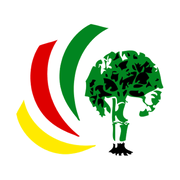
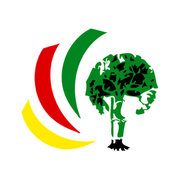
Add files via upload

Changed region(s): [[0.0833, 0.1111, 0.6111, 0.8611], [0.4722, 0.2778, 0.9167, 0.8889]]

diff --git a/contacts.html b/contacts.html
@@ -26,10 +26,13 @@
 </div></div>
 
 <header class="hdr"><div class="wrap hdr-in">
-  <a class="lockup" href="index.html" aria-label="AO Cameroun — accueil">
-    <img class="lk-c" src="assets/img/mark-240.png" alt="" width="334" height="299">
-    <img class="lk-w" src="assets/img/mark-blanc-240.png" alt="" width="334" height="299">
-    <span><span class="nm">AO Cameroun</span><span class="sb">Association camerounaise<br>pour l’ostéosynthèse</span></span>
+  <a class="lockup" href="index.html" aria-label="Association Camerounaise pour l’Ostéosynthèse — accueil">
+    <img class="lk-c" src="assets/img/logo-stack@1x.png"
+         srcset="assets/img/logo-stack@1x.png 1x, assets/img/logo-stack@2x.png 2x, assets/img/logo-stack@3x.png 3x"
+         alt="Association Camerounaise pour l’Ostéosynthèse" width="146" height="108">
+    <img class="lk-w" src="assets/img/logo-stack-blanc@1x.png"
+         srcset="assets/img/logo-stack-blanc@1x.png 1x, assets/img/logo-stack-blanc@2x.png 2x, assets/img/logo-stack-blanc@3x.png 3x"
+         alt="" aria-hidden="true" width="146" height="108">
   </a>
   <nav aria-label="Navigation principale"><ul class="nav"><li><a class="navlink" href="index.html">Accueil</a></li><li data-mega><button class="navlink" aria-expanded="false" aria-haspopup="true">Calendrier des événements <svg class="ic" width="15" height="15" viewBox="0 0 24 24" fill="none" stroke="currentColor" stroke-width="1.7" stroke-linecap="round" stroke-linejoin="round" aria-hidden="true"><path d="m6 9 6 6 6-6"/></svg></button><div class="mega"><div><h3>Par zone</h3><ul><li><a href="calendrier.html">Événements au Cameroun</a></li><li><a href="calendrier-afrique-francophone.html">Afrique francophone</a></li><li><a href="calendrier-afrique-anglophone.html">Afrique anglophone</a></li><li><a href="calendrier-asie.html">Asie</a></li></ul></div><div><h3>Repères</h3><ul><li><a href="calendrier.html#formats">Formats de session</a></li><li><a href="contacts.html">Qui contacter</a></li><li><a href="phototheque.html">Photos des éditions passées</a></li></ul></div><div class="feat"><span class="eyebrow">Prochain événement</span><p class="d5" style="margin:0">[Intitulé de la prochaine session]</p><p class="sm" style="margin:0">[Ville] · <span class="tk">[JJ–JJ mois AAAA]</span></p><a class="btn btn-p btn-sm" href="calendrier.html" style="align-self:flex-start;margin-top:4px">Voir le calendrier</a></div></div></li><li><a class="navlink" href="contacts.html" aria-current="page">Liste des contacts</a></li><li><a class="navlink" href="videotheque.html">Vidéothèque</a></li><li><a class="navlink" href="phototheque.html">Photothèque</a></li></ul></nav>
   <div class="hdr-r">
@@ -43,8 +46,7 @@
 <div class="drawer" id="drawer">
   <div class="wrap">
     <div class="drawer-top">
-      <span class="lockup"><img src="assets/img/mark-120.png" alt="" width="334" height="299" style="height:38px">
-      <span><span class="nm" style="font-size:19px">AO Cameroun</span></span></span>
+      <span class="lockup"><img src="assets/img/logo-stack@1x.png" srcset="assets/img/logo-stack@1x.png 1x, assets/img/logo-stack@2x.png 2x" alt="Association Camerounaise pour l’Ostéosynthèse" width="146" height="108" style="height:86px"></span>
       <button class="iconbtn" data-drawer-close aria-label="Fermer le menu"><svg class="ic" width="20" height="20" viewBox="0 0 24 24" fill="none" stroke="currentColor" stroke-width="1.7" stroke-linecap="round" stroke-linejoin="round" aria-hidden="true"><path d="M6 6l12 12M18 6L6 18"/></svg></button>
     </div>
     <a class="acc-t" href="index.html">Accueil</a><button class="acc-t" aria-expanded="false">Calendrier des événements <span class="ic"><svg class="ic" width="18" height="18" viewBox="0 0 24 24" fill="none" stroke="currentColor" stroke-width="1.7" stroke-linecap="round" stroke-linejoin="round" aria-hidden="true"><rect x="3" y="5" width="18" height="16" rx="2"/><path d="M3 10h18M8 3v4M16 3v4"/></svg></span></button><div class="acc-p"><a href="calendrier.html">Événements au Cameroun</a><a href="calendrier-afrique-francophone.html">Afrique francophone</a><a href="calendrier-afrique-anglophone.html">Afrique anglophone</a><a href="calendrier-asie.html">Asie</a></div><a class="acc-t" href="contacts.html">Liste des contacts</a><a class="acc-t" href="videotheque.html">Vidéothèque</a><a class="acc-t" href="phototheque.html">Photothèque</a>

diff --git a/phototheque.html b/phototheque.html
@@ -26,10 +26,13 @@
 </div></div>
 
 <header class="hdr"><div class="wrap hdr-in">
-  <a class="lockup" href="index.html" aria-label="AO Cameroun — accueil">
-    <img class="lk-c" src="assets/img/mark-240.png" alt="" width="334" height="299">
-    <img class="lk-w" src="assets/img/mark-blanc-240.png" alt="" width="334" height="299">
-    <span><span class="nm">AO Cameroun</span><span class="sb">Association camerounaise<br>pour l’ostéosynthèse</span></span>
+  <a class="lockup" href="index.html" aria-label="Association Camerounaise pour l’Ostéosynthèse — accueil">
+    <img class="lk-c" src="assets/img/logo-stack@1x.png"
+         srcset="assets/img/logo-stack@1x.png 1x, assets/img/logo-stack@2x.png 2x, assets/img/logo-stack@3x.png 3x"
+         alt="Association Camerounaise pour l’Ostéosynthèse" width="146" height="108">
+    <img class="lk-w" src="assets/img/logo-stack-blanc@1x.png"
+         srcset="assets/img/logo-stack-blanc@1x.png 1x, assets/img/logo-stack-blanc@2x.png 2x, assets/img/logo-stack-blanc@3x.png 3x"
+         alt="" aria-hidden="true" width="146" height="108">
   </a>
   <nav aria-label="Navigation principale"><ul class="nav"><li><a class="navlink" href="index.html">Accueil</a></li><li data-mega><button class="navlink" aria-expanded="false" aria-haspopup="true">Calendrier des événements <svg class="ic" width="15" height="15" viewBox="0 0 24 24" fill="none" stroke="currentColor" stroke-width="1.7" stroke-linecap="round" stroke-linejoin="round" aria-hidden="true"><path d="m6 9 6 6 6-6"/></svg></button><div class="mega"><div><h3>Par zone</h3><ul><li><a href="calendrier.html">Événements au Cameroun</a></li><li><a href="calendrier-afrique-francophone.html">Afrique francophone</a></li><li><a href="calendrier-afrique-anglophone.html">Afrique anglophone</a></li><li><a href="calendrier-asie.html">Asie</a></li></ul></div><div><h3>Repères</h3><ul><li><a href="calendrier.html#formats">Formats de session</a></li><li><a href="contacts.html">Qui contacter</a></li><li><a href="phototheque.html">Photos des éditions passées</a></li></ul></div><div class="feat"><span class="eyebrow">Prochain événement</span><p class="d5" style="margin:0">[Intitulé de la prochaine session]</p><p class="sm" style="margin:0">[Ville] · <span class="tk">[JJ–JJ mois AAAA]</span></p><a class="btn btn-p btn-sm" href="calendrier.html" style="align-self:flex-start;margin-top:4px">Voir le calendrier</a></div></div></li><li><a class="navlink" href="contacts.html">Liste des contacts</a></li><li><a class="navlink" href="videotheque.html">Vidéothèque</a></li><li><a class="navlink" href="phototheque.html" aria-current="page">Photothèque</a></li></ul></nav>
   <div class="hdr-r">
@@ -43,8 +46,7 @@
 <div class="drawer" id="drawer">
   <div class="wrap">
     <div class="drawer-top">
-      <span class="lockup"><img src="assets/img/mark-120.png" alt="" width="334" height="299" style="height:38px">
-      <span><span class="nm" style="font-size:19px">AO Cameroun</span></span></span>
+      <span class="lockup"><img src="assets/img/logo-stack@1x.png" srcset="assets/img/logo-stack@1x.png 1x, assets/img/logo-stack@2x.png 2x" alt="Association Camerounaise pour l’Ostéosynthèse" width="146" height="108" style="height:86px"></span>
       <button class="iconbtn" data-drawer-close aria-label="Fermer le menu"><svg class="ic" width="20" height="20" viewBox="0 0 24 24" fill="none" stroke="currentColor" stroke-width="1.7" stroke-linecap="round" stroke-linejoin="round" aria-hidden="true"><path d="M6 6l12 12M18 6L6 18"/></svg></button>
     </div>
     <a class="acc-t" href="index.html">Accueil</a><button class="acc-t" aria-expanded="false">Calendrier des événements <span class="ic"><svg class="ic" width="18" height="18" viewBox="0 0 24 24" fill="none" stroke="currentColor" stroke-width="1.7" stroke-linecap="round" stroke-linejoin="round" aria-hidden="true"><rect x="3" y="5" width="18" height="16" rx="2"/><path d="M3 10h18M8 3v4M16 3v4"/></svg></span></button><div class="acc-p"><a href="calendrier.html">Événements au Cameroun</a><a href="calendrier-afrique-francophone.html">Afrique francophone</a><a href="calendrier-afrique-anglophone.html">Afrique anglophone</a><a href="calendrier-asie.html">Asie</a></div><a class="acc-t" href="contacts.html">Liste des contacts</a><a class="acc-t" href="videotheque.html">Vidéothèque</a><a class="acc-t" href="phototheque.html">Photothèque</a>

diff --git a/videotheque.html b/videotheque.html
@@ -26,10 +26,13 @@
 </div></div>
 
 <header class="hdr"><div class="wrap hdr-in">
-  <a class="lockup" href="index.html" aria-label="AO Cameroun — accueil">
-    <img class="lk-c" src="assets/img/mark-240.png" alt="" width="334" height="299">
-    <img class="lk-w" src="assets/img/mark-blanc-240.png" alt="" width="334" height="299">
-    <span><span class="nm">AO Cameroun</span><span class="sb">Association camerounaise<br>pour l’ostéosynthèse</span></span>
+  <a class="lockup" href="index.html" aria-label="Association Camerounaise pour l’Ostéosynthèse — accueil">
+    <img class="lk-c" src="assets/img/logo-stack@1x.png"
+         srcset="assets/img/logo-stack@1x.png 1x, assets/img/logo-stack@2x.png 2x, assets/img/logo-stack@3x.png 3x"
+         alt="Association Camerounaise pour l’Ostéosynthèse" width="146" height="108">
+    <img class="lk-w" src="assets/img/logo-stack-blanc@1x.png"
+         srcset="assets/img/logo-stack-blanc@1x.png 1x, assets/img/logo-stack-blanc@2x.png 2x, assets/img/logo-stack-blanc@3x.png 3x"
+         alt="" aria-hidden="true" width="146" height="108">
   </a>
   <nav aria-label="Navigation principale"><ul class="nav"><li><a class="navlink" href="index.html">Accueil</a></li><li data-mega><button class="navlink" aria-expanded="false" aria-haspopup="true">Calendrier des événements <svg class="ic" width="15" height="15" viewBox="0 0 24 24" fill="none" stroke="currentColor" stroke-width="1.7" stroke-linecap="round" stroke-linejoin="round" aria-hidden="true"><path d="m6 9 6 6 6-6"/></svg></button><div class="mega"><div><h3>Par zone</h3><ul><li><a href="calendrier.html">Événements au Cameroun</a></li><li><a href="calendrier-afrique-francophone.html">Afrique francophone</a></li><li><a href="calendrier-afrique-anglophone.html">Afrique anglophone</a></li><li><a href="calendrier-asie.html">Asie</a></li></ul></div><div><h3>Repères</h3><ul><li><a href="calendrier.html#formats">Formats de session</a></li><li><a href="contacts.html">Qui contacter</a></li><li><a href="phototheque.html">Photos des éditions passées</a></li></ul></div><div class="feat"><span class="eyebrow">Prochain événement</span><p class="d5" style="margin:0">[Intitulé de la prochaine session]</p><p class="sm" style="margin:0">[Ville] · <span class="tk">[JJ–JJ mois AAAA]</span></p><a class="btn btn-p btn-sm" href="calendrier.html" style="align-self:flex-start;margin-top:4px">Voir le calendrier</a></div></div></li><li><a class="navlink" href="contacts.html">Liste des contacts</a></li><li><a class="navlink" href="videotheque.html" aria-current="page">Vidéothèque</a></li><li><a class="navlink" href="phototheque.html">Photothèque</a></li></ul></nav>
   <div class="hdr-r">
@@ -43,8 +46,7 @@
 <div class="drawer" id="drawer">
   <div class="wrap">
     <div class="drawer-top">
-      <span class="lockup"><img src="assets/img/mark-120.png" alt="" width="334" height="299" style="height:38px">
-      <span><span class="nm" style="font-size:19px">AO Cameroun</span></span></span>
+      <span class="lockup"><img src="assets/img/logo-stack@1x.png" srcset="assets/img/logo-stack@1x.png 1x, assets/img/logo-stack@2x.png 2x" alt="Association Camerounaise pour l’Ostéosynthèse" width="146" height="108" style="height:86px"></span>
       <button class="iconbtn" data-drawer-close aria-label="Fermer le menu"><svg class="ic" width="20" height="20" viewBox="0 0 24 24" fill="none" stroke="currentColor" stroke-width="1.7" stroke-linecap="round" stroke-linejoin="round" aria-hidden="true"><path d="M6 6l12 12M18 6L6 18"/></svg></button>
     </div>
     <a class="acc-t" href="index.html">Accueil</a><button class="acc-t" aria-expanded="false">Calendrier des événements <span class="ic"><svg class="ic" width="18" height="18" viewBox="0 0 24 24" fill="none" stroke="currentColor" stroke-width="1.7" stroke-linecap="round" stroke-linejoin="round" aria-hidden="true"><rect x="3" y="5" width="18" height="16" rx="2"/><path d="M3 10h18M8 3v4M16 3v4"/></svg></span></button><div class="acc-p"><a href="calendrier.html">Événements au Cameroun</a><a href="calendrier-afrique-francophone.html">Afrique francophone</a><a href="calendrier-afrique-anglophone.html">Afrique anglophone</a><a href="calendrier-asie.html">Asie</a></div><a class="acc-t" href="contacts.html">Liste des contacts</a><a class="acc-t" href="videotheque.html">Vidéothèque</a><a class="acc-t" href="phototheque.html">Photothèque</a>

diff --git a/calendrier-afrique-anglophone.html b/calendrier-afrique-anglophone.html
@@ -26,10 +26,13 @@
 </div></div>
 
 <header class="hdr"><div class="wrap hdr-in">
-  <a class="lockup" href="index.html" aria-label="AO Cameroun — accueil">
-    <img class="lk-c" src="assets/img/mark-240.png" alt="" width="334" height="299">
-    <img class="lk-w" src="assets/img/mark-blanc-240.png" alt="" width="334" height="299">
-    <span><span class="nm">AO Cameroun</span><span class="sb">Association camerounaise<br>pour l’ostéosynthèse</span></span>
+  <a class="lockup" href="index.html" aria-label="Association Camerounaise pour l’Ostéosynthèse — accueil">
+    <img class="lk-c" src="assets/img/logo-stack@1x.png"
+         srcset="assets/img/logo-stack@1x.png 1x, assets/img/logo-stack@2x.png 2x, assets/img/logo-stack@3x.png 3x"
+         alt="Association Camerounaise pour l’Ostéosynthèse" width="146" height="108">
+    <img class="lk-w" src="assets/img/logo-stack-blanc@1x.png"
+         srcset="assets/img/logo-stack-blanc@1x.png 1x, assets/img/logo-stack-blanc@2x.png 2x, assets/img/logo-stack-blanc@3x.png 3x"
+         alt="" aria-hidden="true" width="146" height="108">
   </a>
   <nav aria-label="Navigation principale"><ul class="nav"><li><a class="navlink" href="index.html">Accueil</a></li><li data-mega><button class="navlink" aria-expanded="false" aria-haspopup="true">Calendrier des événements <svg class="ic" width="15" height="15" viewBox="0 0 24 24" fill="none" stroke="currentColor" stroke-width="1.7" stroke-linecap="round" stroke-linejoin="round" aria-hidden="true"><path d="m6 9 6 6 6-6"/></svg></button><div class="mega"><div><h3>Par zone</h3><ul><li><a href="calendrier.html">Événements au Cameroun</a></li><li><a href="calendrier-afrique-francophone.html">Afrique francophone</a></li><li><a href="calendrier-afrique-anglophone.html">Afrique anglophone</a></li><li><a href="calendrier-asie.html">Asie</a></li></ul></div><div><h3>Repères</h3><ul><li><a href="calendrier.html#formats">Formats de session</a></li><li><a href="contacts.html">Qui contacter</a></li><li><a href="phototheque.html">Photos des éditions passées</a></li></ul></div><div class="feat"><span class="eyebrow">Prochain événement</span><p class="d5" style="margin:0">[Intitulé de la prochaine session]</p><p class="sm" style="margin:0">[Ville] · <span class="tk">[JJ–JJ mois AAAA]</span></p><a class="btn btn-p btn-sm" href="calendrier.html" style="align-self:flex-start;margin-top:4px">Voir le calendrier</a></div></div></li><li><a class="navlink" href="contacts.html">Liste des contacts</a></li><li><a class="navlink" href="videotheque.html">Vidéothèque</a></li><li><a class="navlink" href="phototheque.html">Photothèque</a></li></ul></nav>
   <div class="hdr-r">
@@ -43,8 +46,7 @@
 <div class="drawer" id="drawer">
   <div class="wrap">
     <div class="drawer-top">
-      <span class="lockup"><img src="assets/img/mark-120.png" alt="" width="334" height="299" style="height:38px">
-      <span><span class="nm" style="font-size:19px">AO Cameroun</span></span></span>
+      <span class="lockup"><img src="assets/img/logo-stack@1x.png" srcset="assets/img/logo-stack@1x.png 1x, assets/img/logo-stack@2x.png 2x" alt="Association Camerounaise pour l’Ostéosynthèse" width="146" height="108" style="height:86px"></span>
       <button class="iconbtn" data-drawer-close aria-label="Fermer le menu"><svg class="ic" width="20" height="20" viewBox="0 0 24 24" fill="none" stroke="currentColor" stroke-width="1.7" stroke-linecap="round" stroke-linejoin="round" aria-hidden="true"><path d="M6 6l12 12M18 6L6 18"/></svg></button>
     </div>
     <a class="acc-t" href="index.html">Accueil</a><button class="acc-t" aria-expanded="false">Calendrier des événements <span class="ic"><svg class="ic" width="18" height="18" viewBox="0 0 24 24" fill="none" stroke="currentColor" stroke-width="1.7" stroke-linecap="round" stroke-linejoin="round" aria-hidden="true"><rect x="3" y="5" width="18" height="16" rx="2"/><path d="M3 10h18M8 3v4M16 3v4"/></svg></span></button><div class="acc-p"><a href="calendrier.html">Événements au Cameroun</a><a href="calendrier-afrique-francophone.html">Afrique francophone</a><a href="calendrier-afrique-anglophone.html">Afrique anglophone</a><a href="calendrier-asie.html">Asie</a></div><a class="acc-t" href="contacts.html">Liste des contacts</a><a class="acc-t" href="videotheque.html">Vidéothèque</a><a class="acc-t" href="phototheque.html">Photothèque</a>

diff --git a/calendrier-afrique-francophone.html b/calendrier-afrique-francophone.html
@@ -26,10 +26,13 @@
 </div></div>
 
 <header class="hdr"><div class="wrap hdr-in">
-  <a class="lockup" href="index.html" aria-label="AO Cameroun — accueil">
-    <img class="lk-c" src="assets/img/mark-240.png" alt="" width="334" height="299">
-    <img class="lk-w" src="assets/img/mark-blanc-240.png" alt="" width="334" height="299">
-    <span><span class="nm">AO Cameroun</span><span class="sb">Association camerounaise<br>pour l’ostéosynthèse</span></span>
+  <a class="lockup" href="index.html" aria-label="Association Camerounaise pour l’Ostéosynthèse — accueil">
+    <img class="lk-c" src="assets/img/logo-stack@1x.png"
+         srcset="assets/img/logo-stack@1x.png 1x, assets/img/logo-stack@2x.png 2x, assets/img/logo-stack@3x.png 3x"
+         alt="Association Camerounaise pour l’Ostéosynthèse" width="146" height="108">
+    <img class="lk-w" src="assets/img/logo-stack-blanc@1x.png"
+         srcset="assets/img/logo-stack-blanc@1x.png 1x, assets/img/logo-stack-blanc@2x.png 2x, assets/img/logo-stack-blanc@3x.png 3x"
+         alt="" aria-hidden="true" width="146" height="108">
   </a>
   <nav aria-label="Navigation principale"><ul class="nav"><li><a class="navlink" href="index.html">Accueil</a></li><li data-mega><button class="navlink" aria-expanded="false" aria-haspopup="true">Calendrier des événements <svg class="ic" width="15" height="15" viewBox="0 0 24 24" fill="none" stroke="currentColor" stroke-width="1.7" stroke-linecap="round" stroke-linejoin="round" aria-hidden="true"><path d="m6 9 6 6 6-6"/></svg></button><div class="mega"><div><h3>Par zone</h3><ul><li><a href="calendrier.html">Événements au Cameroun</a></li><li><a href="calendrier-afrique-francophone.html">Afrique francophone</a></li><li><a href="calendrier-afrique-anglophone.html">Afrique anglophone</a></li><li><a href="calendrier-asie.html">Asie</a></li></ul></div><div><h3>Repères</h3><ul><li><a href="calendrier.html#formats">Formats de session</a></li><li><a href="contacts.html">Qui contacter</a></li><li><a href="phototheque.html">Photos des éditions passées</a></li></ul></div><div class="feat"><span class="eyebrow">Prochain événement</span><p class="d5" style="margin:0">[Intitulé de la prochaine session]</p><p class="sm" style="margin:0">[Ville] · <span class="tk">[JJ–JJ mois AAAA]</span></p><a class="btn btn-p btn-sm" href="calendrier.html" style="align-self:flex-start;margin-top:4px">Voir le calendrier</a></div></div></li><li><a class="navlink" href="contacts.html">Liste des contacts</a></li><li><a class="navlink" href="videotheque.html">Vidéothèque</a></li><li><a class="navlink" href="phototheque.html">Photothèque</a></li></ul></nav>
   <div class="hdr-r">
@@ -43,8 +46,7 @@
 <div class="drawer" id="drawer">
   <div class="wrap">
     <div class="drawer-top">
-      <span class="lockup"><img src="assets/img/mark-120.png" alt="" width="334" height="299" style="height:38px">
-      <span><span class="nm" style="font-size:19px">AO Cameroun</span></span></span>
+      <span class="lockup"><img src="assets/img/logo-stack@1x.png" srcset="assets/img/logo-stack@1x.png 1x, assets/img/logo-stack@2x.png 2x" alt="Association Camerounaise pour l’Ostéosynthèse" width="146" height="108" style="height:86px"></span>
       <button class="iconbtn" data-drawer-close aria-label="Fermer le menu"><svg class="ic" width="20" height="20" viewBox="0 0 24 24" fill="none" stroke="currentColor" stroke-width="1.7" stroke-linecap="round" stroke-linejoin="round" aria-hidden="true"><path d="M6 6l12 12M18 6L6 18"/></svg></button>
     </div>
     <a class="acc-t" href="index.html">Accueil</a><button class="acc-t" aria-expanded="false">Calendrier des événements <span class="ic"><svg class="ic" width="18" height="18" viewBox="0 0 24 24" fill="none" stroke="currentColor" stroke-width="1.7" stroke-linecap="round" stroke-linejoin="round" aria-hidden="true"><rect x="3" y="5" width="18" height="16" rx="2"/><path d="M3 10h18M8 3v4M16 3v4"/></svg></span></button><div class="acc-p"><a href="calendrier.html">Événements au Cameroun</a><a href="calendrier-afrique-francophone.html">Afrique francophone</a><a href="calendrier-afrique-anglophone.html">Afrique anglophone</a><a href="calendrier-asie.html">Asie</a></div><a class="acc-t" href="contacts.html">Liste des contacts</a><a class="acc-t" href="videotheque.html">Vidéothèque</a><a class="acc-t" href="phototheque.html">Photothèque</a>

diff --git a/calendrier-asie.html b/calendrier-asie.html
@@ -26,10 +26,13 @@
 </div></div>
 
 <header class="hdr"><div class="wrap hdr-in">
-  <a class="lockup" href="index.html" aria-label="AO Cameroun — accueil">
-    <img class="lk-c" src="assets/img/mark-240.png" alt="" width="334" height="299">
-    <img class="lk-w" src="assets/img/mark-blanc-240.png" alt="" width="334" height="299">
-    <span><span class="nm">AO Cameroun</span><span class="sb">Association camerounaise<br>pour l’ostéosynthèse</span></span>
+  <a class="lockup" href="index.html" aria-label="Association Camerounaise pour l’Ostéosynthèse — accueil">
+    <img class="lk-c" src="assets/img/logo-stack@1x.png"
+         srcset="assets/img/logo-stack@1x.png 1x, assets/img/logo-stack@2x.png 2x, assets/img/logo-stack@3x.png 3x"
+         alt="Association Camerounaise pour l’Ostéosynthèse" width="146" height="108">
+    <img class="lk-w" src="assets/img/logo-stack-blanc@1x.png"
+         srcset="assets/img/logo-stack-blanc@1x.png 1x, assets/img/logo-stack-blanc@2x.png 2x, assets/img/logo-stack-blanc@3x.png 3x"
+         alt="" aria-hidden="true" width="146" height="108">
   </a>
   <nav aria-label="Navigation principale"><ul class="nav"><li><a class="navlink" href="index.html">Accueil</a></li><li data-mega><button class="navlink" aria-expanded="false" aria-haspopup="true">Calendrier des événements <svg class="ic" width="15" height="15" viewBox="0 0 24 24" fill="none" stroke="currentColor" stroke-width="1.7" stroke-linecap="round" stroke-linejoin="round" aria-hidden="true"><path d="m6 9 6 6 6-6"/></svg></button><div class="mega"><div><h3>Par zone</h3><ul><li><a href="calendrier.html">Événements au Cameroun</a></li><li><a href="calendrier-afrique-francophone.html">Afrique francophone</a></li><li><a href="calendrier-afrique-anglophone.html">Afrique anglophone</a></li><li><a href="calendrier-asie.html">Asie</a></li></ul></div><div><h3>Repères</h3><ul><li><a href="calendrier.html#formats">Formats de session</a></li><li><a href="contacts.html">Qui contacter</a></li><li><a href="phototheque.html">Photos des éditions passées</a></li></ul></div><div class="feat"><span class="eyebrow">Prochain événement</span><p class="d5" style="margin:0">[Intitulé de la prochaine session]</p><p class="sm" style="margin:0">[Ville] · <span class="tk">[JJ–JJ mois AAAA]</span></p><a class="btn btn-p btn-sm" href="calendrier.html" style="align-self:flex-start;margin-top:4px">Voir le calendrier</a></div></div></li><li><a class="navlink" href="contacts.html">Liste des contacts</a></li><li><a class="navlink" href="videotheque.html">Vidéothèque</a></li><li><a class="navlink" href="phototheque.html">Photothèque</a></li></ul></nav>
   <div class="hdr-r">
@@ -43,8 +46,7 @@
 <div class="drawer" id="drawer">
   <div class="wrap">
     <div class="drawer-top">
-      <span class="lockup"><img src="assets/img/mark-120.png" alt="" width="334" height="299" style="height:38px">
-      <span><span class="nm" style="font-size:19px">AO Cameroun</span></span></span>
+      <span class="lockup"><img src="assets/img/logo-stack@1x.png" srcset="assets/img/logo-stack@1x.png 1x, assets/img/logo-stack@2x.png 2x" alt="Association Camerounaise pour l’Ostéosynthèse" width="146" height="108" style="height:86px"></span>
       <button class="iconbtn" data-drawer-close aria-label="Fermer le menu"><svg class="ic" width="20" height="20" viewBox="0 0 24 24" fill="none" stroke="currentColor" stroke-width="1.7" stroke-linecap="round" stroke-linejoin="round" aria-hidden="true"><path d="M6 6l12 12M18 6L6 18"/></svg></button>
     </div>
     <a class="acc-t" href="index.html">Accueil</a><button class="acc-t" aria-expanded="false">Calendrier des événements <span class="ic"><svg class="ic" width="18" height="18" viewBox="0 0 24 24" fill="none" stroke="currentColor" stroke-width="1.7" stroke-linecap="round" stroke-linejoin="round" aria-hidden="true"><rect x="3" y="5" width="18" height="16" rx="2"/><path d="M3 10h18M8 3v4M16 3v4"/></svg></span></button><div class="acc-p"><a href="calendrier.html">Événements au Cameroun</a><a href="calendrier-afrique-francophone.html">Afrique francophone</a><a href="calendrier-afrique-anglophone.html">Afrique anglophone</a><a href="calendrier-asie.html">Asie</a></div><a class="acc-t" href="contacts.html">Liste des contacts</a><a class="acc-t" href="videotheque.html">Vidéothèque</a><a class="acc-t" href="phototheque.html">Photothèque</a>

diff --git a/calendrier.html b/calendrier.html
@@ -26,10 +26,13 @@
 </div></div>
 
 <header class="hdr"><div class="wrap hdr-in">
-  <a class="lockup" href="index.html" aria-label="AO Cameroun — accueil">
-    <img class="lk-c" src="assets/img/mark-240.png" alt="" width="334" height="299">
-    <img class="lk-w" src="assets/img/mark-blanc-240.png" alt="" width="334" height="299">
-    <span><span class="nm">AO Cameroun</span><span class="sb">Association camerounaise<br>pour l’ostéosynthèse</span></span>
+  <a class="lockup" href="index.html" aria-label="Association Camerounaise pour l’Ostéosynthèse — accueil">
+    <img class="lk-c" src="assets/img/logo-stack@1x.png"
+         srcset="assets/img/logo-stack@1x.png 1x, assets/img/logo-stack@2x.png 2x, assets/img/logo-stack@3x.png 3x"
+         alt="Association Camerounaise pour l’Ostéosynthèse" width="146" height="108">
+    <img class="lk-w" src="assets/img/logo-stack-blanc@1x.png"
+         srcset="assets/img/logo-stack-blanc@1x.png 1x, assets/img/logo-stack-blanc@2x.png 2x, assets/img/logo-stack-blanc@3x.png 3x"
+         alt="" aria-hidden="true" width="146" height="108">
   </a>
   <nav aria-label="Navigation principale"><ul class="nav"><li><a class="navlink" href="index.html">Accueil</a></li><li data-mega><button class="navlink" aria-expanded="false" aria-haspopup="true">Calendrier des événements <svg class="ic" width="15" height="15" viewBox="0 0 24 24" fill="none" stroke="currentColor" stroke-width="1.7" stroke-linecap="round" stroke-linejoin="round" aria-hidden="true"><path d="m6 9 6 6 6-6"/></svg></button><div class="mega"><div><h3>Par zone</h3><ul><li><a href="calendrier.html">Événements au Cameroun</a></li><li><a href="calendrier-afrique-francophone.html">Afrique francophone</a></li><li><a href="calendrier-afrique-anglophone.html">Afrique anglophone</a></li><li><a href="calendrier-asie.html">Asie</a></li></ul></div><div><h3>Repères</h3><ul><li><a href="calendrier.html#formats">Formats de session</a></li><li><a href="contacts.html">Qui contacter</a></li><li><a href="phototheque.html">Photos des éditions passées</a></li></ul></div><div class="feat"><span class="eyebrow">Prochain événement</span><p class="d5" style="margin:0">[Intitulé de la prochaine session]</p><p class="sm" style="margin:0">[Ville] · <span class="tk">[JJ–JJ mois AAAA]</span></p><a class="btn btn-p btn-sm" href="calendrier.html" style="align-self:flex-start;margin-top:4px">Voir le calendrier</a></div></div></li><li><a class="navlink" href="contacts.html">Liste des contacts</a></li><li><a class="navlink" href="videotheque.html">Vidéothèque</a></li><li><a class="navlink" href="phototheque.html">Photothèque</a></li></ul></nav>
   <div class="hdr-r">
@@ -43,8 +46,7 @@
 <div class="drawer" id="drawer">
   <div class="wrap">
     <div class="drawer-top">
-      <span class="lockup"><img src="assets/img/mark-120.png" alt="" width="334" height="299" style="height:38px">
-      <span><span class="nm" style="font-size:19px">AO Cameroun</span></span></span>
+      <span class="lockup"><img src="assets/img/logo-stack@1x.png" srcset="assets/img/logo-stack@1x.png 1x, assets/img/logo-stack@2x.png 2x" alt="Association Camerounaise pour l’Ostéosynthèse" width="146" height="108" style="height:86px"></span>
       <button class="iconbtn" data-drawer-close aria-label="Fermer le menu"><svg class="ic" width="20" height="20" viewBox="0 0 24 24" fill="none" stroke="currentColor" stroke-width="1.7" stroke-linecap="round" stroke-linejoin="round" aria-hidden="true"><path d="M6 6l12 12M18 6L6 18"/></svg></button>
     </div>
     <a class="acc-t" href="index.html">Accueil</a><button class="acc-t" aria-expanded="false">Calendrier des événements <span class="ic"><svg class="ic" width="18" height="18" viewBox="0 0 24 24" fill="none" stroke="currentColor" stroke-width="1.7" stroke-linecap="round" stroke-linejoin="round" aria-hidden="true"><rect x="3" y="5" width="18" height="16" rx="2"/><path d="M3 10h18M8 3v4M16 3v4"/></svg></span></button><div class="acc-p"><a href="calendrier.html">Événements au Cameroun</a><a href="calendrier-afrique-francophone.html">Afrique francophone</a><a href="calendrier-afrique-anglophone.html">Afrique anglophone</a><a href="calendrier-asie.html">Asie</a></div><a class="acc-t" href="contacts.html">Liste des contacts</a><a class="acc-t" href="videotheque.html">Vidéothèque</a><a class="acc-t" href="phototheque.html">Photothèque</a>

diff --git a/mentions.html b/mentions.html
@@ -26,10 +26,13 @@
 </div></div>
 
 <header class="hdr"><div class="wrap hdr-in">
-  <a class="lockup" href="index.html" aria-label="AO Cameroun — accueil">
-    <img class="lk-c" src="assets/img/mark-240.png" alt="" width="334" height="299">
-    <img class="lk-w" src="assets/img/mark-blanc-240.png" alt="" width="334" height="299">
-    <span><span class="nm">AO Cameroun</span><span class="sb">Association camerounaise<br>pour l’ostéosynthèse</span></span>
+  <a class="lockup" href="index.html" aria-label="Association Camerounaise pour l’Ostéosynthèse — accueil">
+    <img class="lk-c" src="assets/img/logo-stack@1x.png"
+         srcset="assets/img/logo-stack@1x.png 1x, assets/img/logo-stack@2x.png 2x, assets/img/logo-stack@3x.png 3x"
+         alt="Association Camerounaise pour l’Ostéosynthèse" width="146" height="108">
+    <img class="lk-w" src="assets/img/logo-stack-blanc@1x.png"
+         srcset="assets/img/logo-stack-blanc@1x.png 1x, assets/img/logo-stack-blanc@2x.png 2x, assets/img/logo-stack-blanc@3x.png 3x"
+         alt="" aria-hidden="true" width="146" height="108">
   </a>
   <nav aria-label="Navigation principale"><ul class="nav"><li><a class="navlink" href="index.html">Accueil</a></li><li data-mega><button class="navlink" aria-expanded="false" aria-haspopup="true">Calendrier des événements <svg class="ic" width="15" height="15" viewBox="0 0 24 24" fill="none" stroke="currentColor" stroke-width="1.7" stroke-linecap="round" stroke-linejoin="round" aria-hidden="true"><path d="m6 9 6 6 6-6"/></svg></button><div class="mega"><div><h3>Par zone</h3><ul><li><a href="calendrier.html">Événements au Cameroun</a></li><li><a href="calendrier-afrique-francophone.html">Afrique francophone</a></li><li><a href="calendrier-afrique-anglophone.html">Afrique anglophone</a></li><li><a href="calendrier-asie.html">Asie</a></li></ul></div><div><h3>Repères</h3><ul><li><a href="calendrier.html#formats">Formats de session</a></li><li><a href="contacts.html">Qui contacter</a></li><li><a href="phototheque.html">Photos des éditions passées</a></li></ul></div><div class="feat"><span class="eyebrow">Prochain événement</span><p class="d5" style="margin:0">[Intitulé de la prochaine session]</p><p class="sm" style="margin:0">[Ville] · <span class="tk">[JJ–JJ mois AAAA]</span></p><a class="btn btn-p btn-sm" href="calendrier.html" style="align-self:flex-start;margin-top:4px">Voir le calendrier</a></div></div></li><li><a class="navlink" href="contacts.html">Liste des contacts</a></li><li><a class="navlink" href="videotheque.html">Vidéothèque</a></li><li><a class="navlink" href="phototheque.html">Photothèque</a></li></ul></nav>
   <div class="hdr-r">
@@ -43,8 +46,7 @@
 <div class="drawer" id="drawer">
   <div class="wrap">
     <div class="drawer-top">
-      <span class="lockup"><img src="assets/img/mark-120.png" alt="" width="334" height="299" style="height:38px">
-      <span><span class="nm" style="font-size:19px">AO Cameroun</span></span></span>
+      <span class="lockup"><img src="assets/img/logo-stack@1x.png" srcset="assets/img/logo-stack@1x.png 1x, assets/img/logo-stack@2x.png 2x" alt="Association Camerounaise pour l’Ostéosynthèse" width="146" height="108" style="height:86px"></span>
       <button class="iconbtn" data-drawer-close aria-label="Fermer le menu"><svg class="ic" width="20" height="20" viewBox="0 0 24 24" fill="none" stroke="currentColor" stroke-width="1.7" stroke-linecap="round" stroke-linejoin="round" aria-hidden="true"><path d="M6 6l12 12M18 6L6 18"/></svg></button>
     </div>
     <a class="acc-t" href="index.html">Accueil</a><button class="acc-t" aria-expanded="false">Calendrier des événements <span class="ic"><svg class="ic" width="18" height="18" viewBox="0 0 24 24" fill="none" stroke="currentColor" stroke-width="1.7" stroke-linecap="round" stroke-linejoin="round" aria-hidden="true"><rect x="3" y="5" width="18" height="16" rx="2"/><path d="M3 10h18M8 3v4M16 3v4"/></svg></span></button><div class="acc-p"><a href="calendrier.html">Événements au Cameroun</a><a href="calendrier-afrique-francophone.html">Afrique francophone</a><a href="calendrier-afrique-anglophone.html">Afrique anglophone</a><a href="calendrier-asie.html">Asie</a></div><a class="acc-t" href="contacts.html">Liste des contacts</a><a class="acc-t" href="videotheque.html">Vidéothèque</a><a class="acc-t" href="phototheque.html">Photothèque</a>

diff --git a/plan.html b/plan.html
@@ -26,10 +26,13 @@
 </div></div>
 
 <header class="hdr"><div class="wrap hdr-in">
-  <a class="lockup" href="index.html" aria-label="AO Cameroun — accueil">
-    <img class="lk-c" src="assets/img/mark-240.png" alt="" width="334" height="299">
-    <img class="lk-w" src="assets/img/mark-blanc-240.png" alt="" width="334" height="299">
-    <span><span class="nm">AO Cameroun</span><span class="sb">Association camerounaise<br>pour l’ostéosynthèse</span></span>
+  <a class="lockup" href="index.html" aria-label="Association Camerounaise pour l’Ostéosynthèse — accueil">
+    <img class="lk-c" src="assets/img/logo-stack@1x.png"
+         srcset="assets/img/logo-stack@1x.png 1x, assets/img/logo-stack@2x.png 2x, assets/img/logo-stack@3x.png 3x"
+         alt="Association Camerounaise pour l’Ostéosynthèse" width="146" height="108">
+    <img class="lk-w" src="assets/img/logo-stack-blanc@1x.png"
+         srcset="assets/img/logo-stack-blanc@1x.png 1x, assets/img/logo-stack-blanc@2x.png 2x, assets/img/logo-stack-blanc@3x.png 3x"
+         alt="" aria-hidden="true" width="146" height="108">
   </a>
   <nav aria-label="Navigation principale"><ul class="nav"><li><a class="navlink" href="index.html">Accueil</a></li><li data-mega><button class="navlink" aria-expanded="false" aria-haspopup="true">Calendrier des événements <svg class="ic" width="15" height="15" viewBox="0 0 24 24" fill="none" stroke="currentColor" stroke-width="1.7" stroke-linecap="round" stroke-linejoin="round" aria-hidden="true"><path d="m6 9 6 6 6-6"/></svg></button><div class="mega"><div><h3>Par zone</h3><ul><li><a href="calendrier.html">Événements au Cameroun</a></li><li><a href="calendrier-afrique-francophone.html">Afrique francophone</a></li><li><a href="calendrier-afrique-anglophone.html">Afrique anglophone</a></li><li><a href="calendrier-asie.html">Asie</a></li></ul></div><div><h3>Repères</h3><ul><li><a href="calendrier.html#formats">Formats de session</a></li><li><a href="contacts.html">Qui contacter</a></li><li><a href="phototheque.html">Photos des éditions passées</a></li></ul></div><div class="feat"><span class="eyebrow">Prochain événement</span><p class="d5" style="margin:0">[Intitulé de la prochaine session]</p><p class="sm" style="margin:0">[Ville] · <span class="tk">[JJ–JJ mois AAAA]</span></p><a class="btn btn-p btn-sm" href="calendrier.html" style="align-self:flex-start;margin-top:4px">Voir le calendrier</a></div></div></li><li><a class="navlink" href="contacts.html">Liste des contacts</a></li><li><a class="navlink" href="videotheque.html">Vidéothèque</a></li><li><a class="navlink" href="phototheque.html">Photothèque</a></li></ul></nav>
   <div class="hdr-r">
@@ -43,8 +46,7 @@
 <div class="drawer" id="drawer">
   <div class="wrap">
     <div class="drawer-top">
-      <span class="lockup"><img src="assets/img/mark-120.png" alt="" width="334" height="299" style="height:38px">
-      <span><span class="nm" style="font-size:19px">AO Cameroun</span></span></span>
+      <span class="lockup"><img src="assets/img/logo-stack@1x.png" srcset="assets/img/logo-stack@1x.png 1x, assets/img/logo-stack@2x.png 2x" alt="Association Camerounaise pour l’Ostéosynthèse" width="146" height="108" style="height:86px"></span>
       <button class="iconbtn" data-drawer-close aria-label="Fermer le menu"><svg class="ic" width="20" height="20" viewBox="0 0 24 24" fill="none" stroke="currentColor" stroke-width="1.7" stroke-linecap="round" stroke-linejoin="round" aria-hidden="true"><path d="M6 6l12 12M18 6L6 18"/></svg></button>
     </div>
     <a class="acc-t" href="index.html">Accueil</a><button class="acc-t" aria-expanded="false">Calendrier des événements <span class="ic"><svg class="ic" width="18" height="18" viewBox="0 0 24 24" fill="none" stroke="currentColor" stroke-width="1.7" stroke-linecap="round" stroke-linejoin="round" aria-hidden="true"><rect x="3" y="5" width="18" height="16" rx="2"/><path d="M3 10h18M8 3v4M16 3v4"/></svg></span></button><div class="acc-p"><a href="calendrier.html">Événements au Cameroun</a><a href="calendrier-afrique-francophone.html">Afrique francophone</a><a href="calendrier-afrique-anglophone.html">Afrique anglophone</a><a href="calendrier-asie.html">Asie</a></div><a class="acc-t" href="contacts.html">Liste des contacts</a><a class="acc-t" href="videotheque.html">Vidéothèque</a><a class="acc-t" href="phototheque.html">Photothèque</a>

diff --git a/index.html b/index.html
@@ -26,9 +26,13 @@
 </div></div>
 
 <header class="hdr hdr-over"><div class="wrap hdr-in">
-  <a class="lockup" href="index.html" aria-label="AO Cameroun — accueil">
-    <img class="lk-c" src="assets/img/logo-900.png" alt="" width="450" height="auto">
-    <img class="lk-w" src="assets/img/logo-900.png" alt="" width="450" height="auto">
+  <a class="lockup" href="index.html" aria-label="Association Camerounaise pour l’Ostéosynthèse — accueil">
+    <img class="lk-c" src="assets/img/logo-stack@1x.png"
+         srcset="assets/img/logo-stack@1x.png 1x, assets/img/logo-stack@2x.png 2x, assets/img/logo-stack@3x.png 3x"
+         alt="Association Camerounaise pour l’Ostéosynthèse" width="146" height="108">
+    <img class="lk-w" src="assets/img/logo-stack-blanc@1x.png"
+         srcset="assets/img/logo-stack-blanc@1x.png 1x, assets/img/logo-stack-blanc@2x.png 2x, assets/img/logo-stack-blanc@3x.png 3x"
+         alt="" aria-hidden="true" width="146" height="108">
   </a>
   <nav aria-label="Navigation principale"><ul class="nav"><li><a class="navlink" href="index.html" aria-current="page">Accueil</a></li><li data-mega><button class="navlink" aria-expanded="false" aria-haspopup="true">Calendrier des événements <svg class="ic" width="15" height="15" viewBox="0 0 24 24" fill="none" stroke="currentColor" stroke-width="1.7" stroke-linecap="round" stroke-linejoin="round" aria-hidden="true"><path d="m6 9 6 6 6-6"/></svg></button><div class="mega"><div><h3>Par zone</h3><ul><li><a href="calendrier.html">Événements au Cameroun</a></li><li><a href="calendrier-afrique-francophone.html">Afrique francophone</a></li><li><a href="calendrier-afrique-anglophone.html">Afrique anglophone</a></li><li><a href="calendrier-asie.html">Asie</a></li></ul></div><div><h3>Repères</h3><ul><li><a href="calendrier.html#formats">Formats de session</a></li><li><a href="contacts.html">Qui contacter</a></li><li><a href="phototheque.html">Photos des éditions passées</a></li></ul></div><div class="feat"><span class="eyebrow">Prochain événement</span><p class="d5" style="margin:0">[Intitulé de la prochaine session]</p><p class="sm" style="margin:0">[Ville] · <span class="tk">[JJ–JJ mois AAAA]</span></p><a class="btn btn-p btn-sm" href="calendrier.html" style="align-self:flex-start;margin-top:4px">Voir le calendrier</a></div></div></li><li><a class="navlink" href="contacts.html">Liste des contacts</a></li><li><a class="navlink" href="videotheque.html">Vidéothèque</a></li><li><a class="navlink" href="phototheque.html">Photothèque</a></li></ul></nav>
   <div class="hdr-r">
@@ -42,8 +46,7 @@
 <div class="drawer" id="drawer">
   <div class="wrap">
     <div class="drawer-top">
-      <span class="lockup"><img src="assets/img/mark-120.png" alt="" width="334" height="299" style="height:38px">
-      <span><span class="nm" style="font-size:19px">AO Cameroun</span></span></span>
+      <span class="lockup"><img src="assets/img/logo-stack@1x.png" srcset="assets/img/logo-stack@1x.png 1x, assets/img/logo-stack@2x.png 2x" alt="Association Camerounaise pour l’Ostéosynthèse" width="146" height="108" style="height:86px"></span>
       <button class="iconbtn" data-drawer-close aria-label="Fermer le menu"><svg class="ic" width="20" height="20" viewBox="0 0 24 24" fill="none" stroke="currentColor" stroke-width="1.7" stroke-linecap="round" stroke-linejoin="round" aria-hidden="true"><path d="M6 6l12 12M18 6L6 18"/></svg></button>
     </div>
     <a class="acc-t" href="index.html">Accueil</a><button class="acc-t" aria-expanded="false">Calendrier des événements <span class="ic"><svg class="ic" width="18" height="18" viewBox="0 0 24 24" fill="none" stroke="currentColor" stroke-width="1.7" stroke-linecap="round" stroke-linejoin="round" aria-hidden="true"><rect x="3" y="5" width="18" height="16" rx="2"/><path d="M3 10h18M8 3v4M16 3v4"/></svg></span></button><div class="acc-p"><a href="calendrier.html">Événements au Cameroun</a><a href="calendrier-afrique-francophone.html">Afrique francophone</a><a href="calendrier-afrique-anglophone.html">Afrique anglophone</a><a href="calendrier-asie.html">Asie</a></div><a class="acc-t" href="contacts.html">Liste des contacts</a><a class="acc-t" href="videotheque.html">Vidéothèque</a><a class="acc-t" href="phototheque.html">Photothèque</a>
